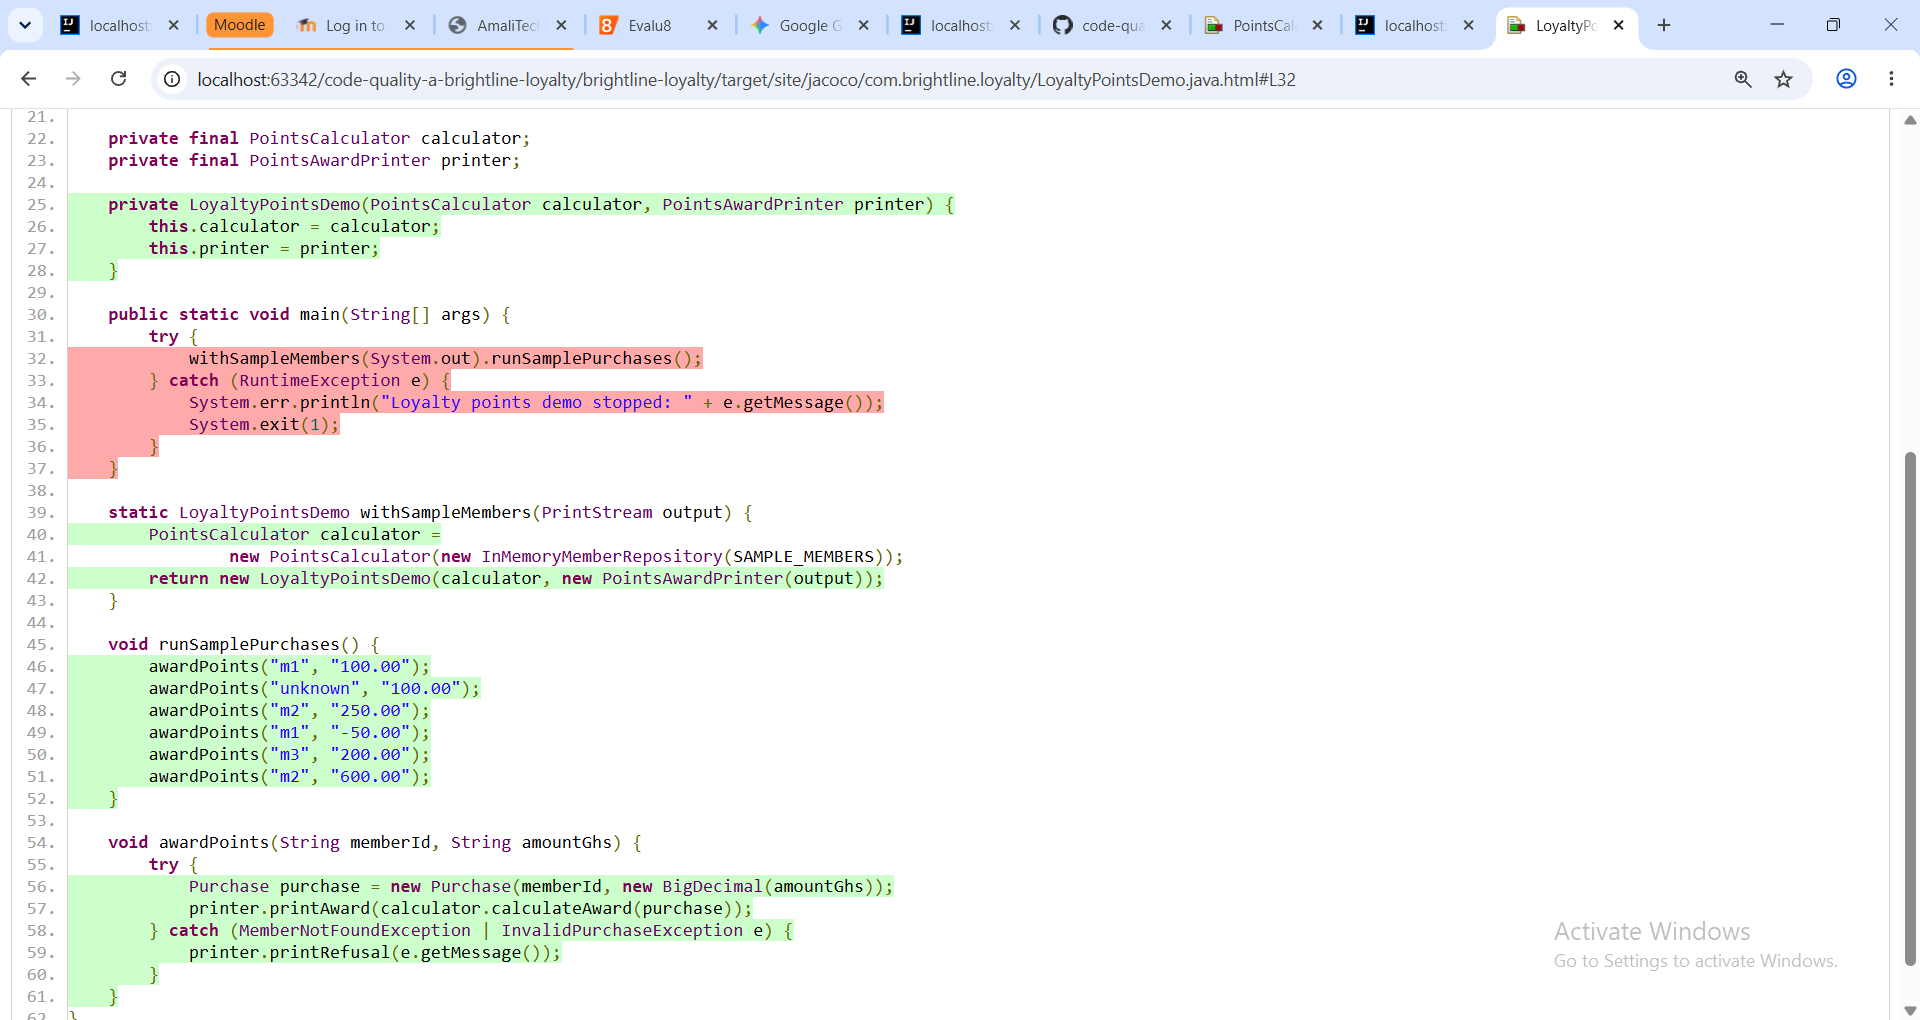
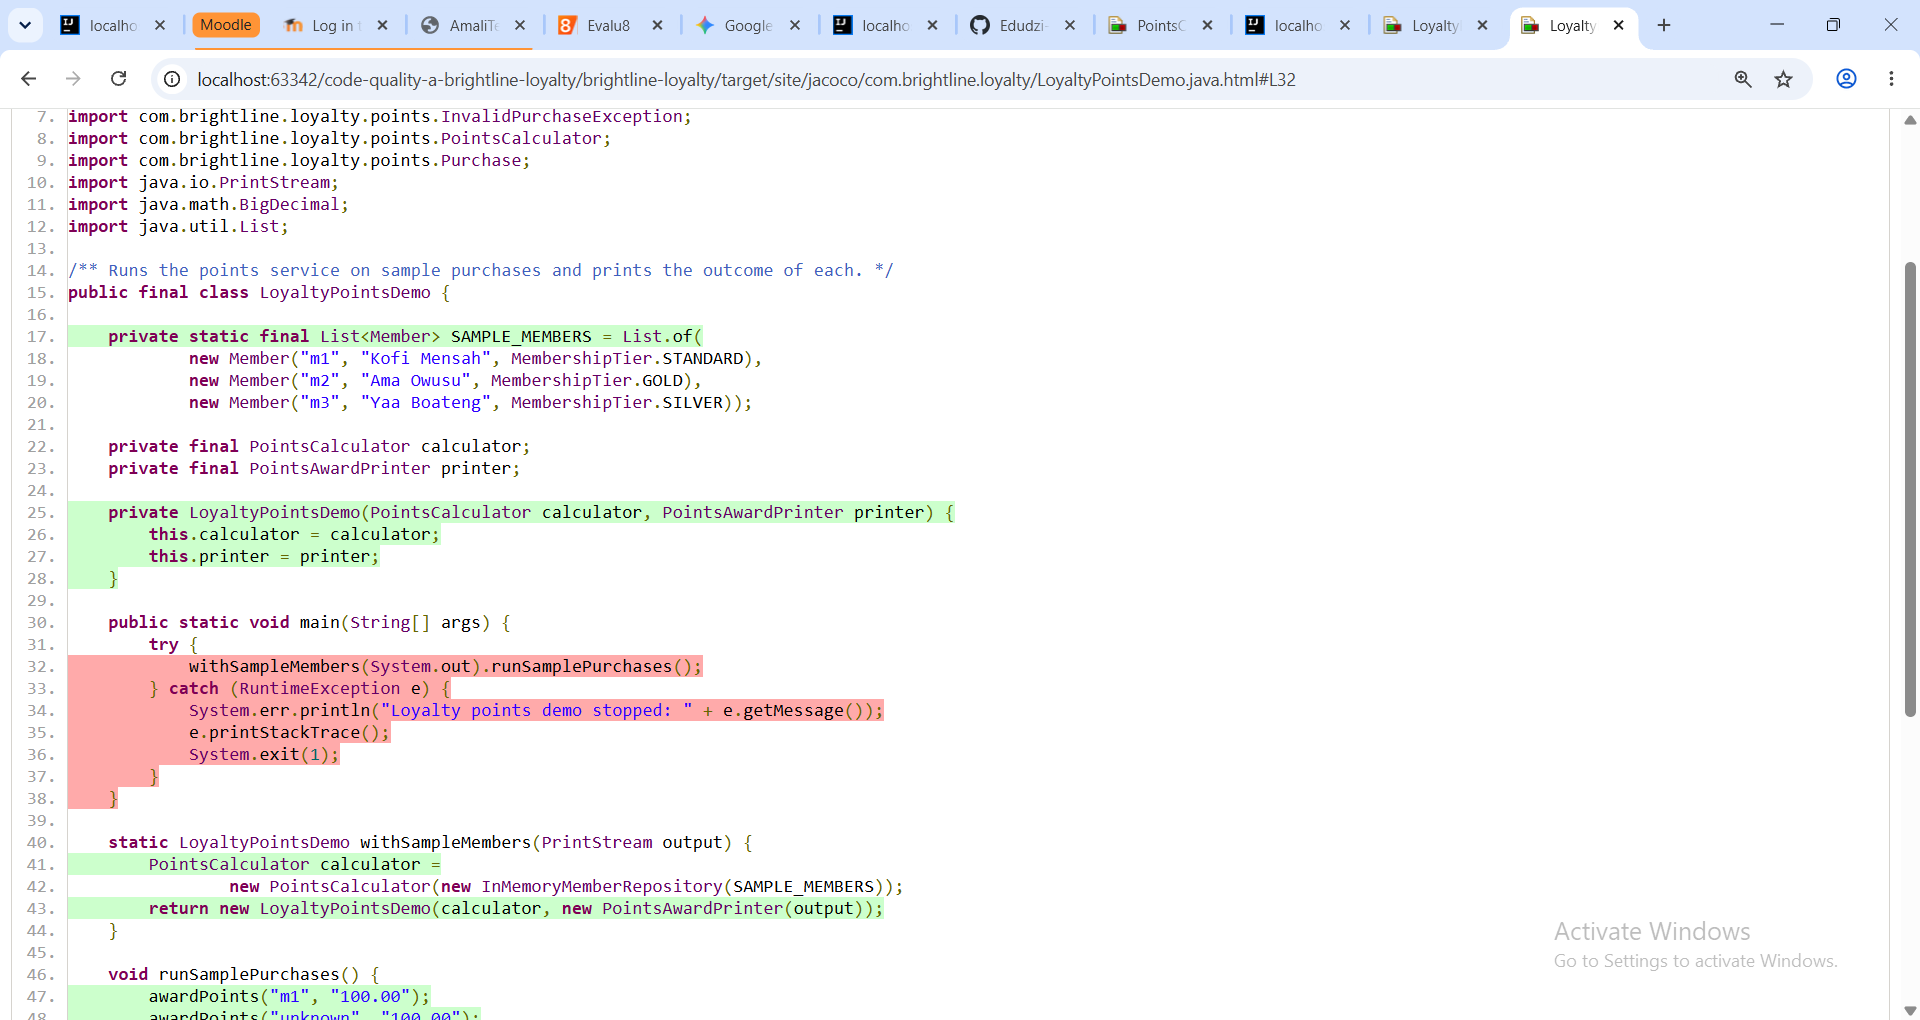
Fix the hygiene review points
Renames GHS_PER_BASE_POINT to GHS_PER_POINT and the bonus parameter to tierPoints, names the decimal-places check, refuses an amount that is not a number instead of stopping the demo, keeps the stack trace for unexpected errors, verifies the repository lookup in the unknown-member test and adds a test for a non-numeric amount. Figures and evidence updated to match.

diff --git a/src/main/java/com/brightline/loyalty/points/PointsCalculator.java b/src/main/java/com/brightline/loyalty/points/PointsCalculator.java
@@ -10,7 +10,7 @@ import java.util.Objects;
 /** Works out the points a member earns on a purchase. */
 public final class PointsCalculator {
 
-    private static final BigDecimal GHS_PER_BASE_POINT = new BigDecimal("10");
+    private static final BigDecimal GHS_PER_POINT = new BigDecimal("10");
     private static final BigDecimal BONUS_THRESHOLD_GHS = new BigDecimal("500");
     private static final int BONUS_POINTS = 50;
 
@@ -30,14 +30,14 @@ public final class PointsCalculator {
     }
 
     private int basePoints(BigDecimal amount) {
-        return amount.divide(GHS_PER_BASE_POINT, 0, RoundingMode.DOWN).intValueExact();
+        return amount.divide(GHS_PER_POINT, 0, RoundingMode.DOWN).intValueExact();
     }
 
     /** Adds the flat bonus for spending more than GHS 500; exactly GHS 500 earns none. */
-    private int addBonusPoints(BigDecimal amount, int points) {
+    private int addBonusPoints(BigDecimal amount, int tierPoints) {
         if (amount.compareTo(BONUS_THRESHOLD_GHS) > 0) {
-            return points + BONUS_POINTS;
+            return tierPoints + BONUS_POINTS;
         }
-        return points;
+        return tierPoints;
     }
 }

diff --git a/src/main/java/com/brightline/loyalty/LoyaltyPointsDemo.java b/src/main/java/com/brightline/loyalty/LoyaltyPointsDemo.java
@@ -32,6 +32,7 @@ public final class LoyaltyPointsDemo {
             withSampleMembers(System.out).runSamplePurchases();
         } catch (RuntimeException e) {
             System.err.println("Loyalty points demo stopped: " + e.getMessage());
+            e.printStackTrace();
             System.exit(1);
         }
     }
@@ -53,10 +54,18 @@ public final class LoyaltyPointsDemo {
 
     void awardPoints(String memberId, String amountGhs) {
         try {
-            Purchase purchase = new Purchase(memberId, new BigDecimal(amountGhs));
+            Purchase purchase = new Purchase(memberId, parseAmount(amountGhs));
             printer.printAward(calculator.calculateAward(purchase));
         } catch (MemberNotFoundException | InvalidPurchaseException e) {
             printer.printRefusal(e.getMessage());
+        }
+    }
+
+    private static BigDecimal parseAmount(String amountGhs) {
+        try {
+            return new BigDecimal(amountGhs);
+        } catch (NumberFormatException e) {
+            throw new InvalidPurchaseException("Amount is not a number: " + amountGhs, e);
         }
     }
 }

diff --git a/src/main/java/com/brightline/loyalty/points/Purchase.java b/src/main/java/com/brightline/loyalty/points/Purchase.java
@@ -14,9 +14,14 @@ public record Purchase(String memberId, BigDecimal amount) {
         if (amount == null || amount.signum() <= 0) {
             throw new InvalidPurchaseException("Amount must be more than zero: " + amount);
         }
-        if (amount.stripTrailingZeros().scale() > MAX_DECIMAL_PLACES) {
+        if (decimalPlaces(amount) > MAX_DECIMAL_PLACES) {
             throw new InvalidPurchaseException("Amount must have at most "
                     + MAX_DECIMAL_PLACES + " decimal places: " + amount);
         }
+    }
+
+    /** Counts real decimal places: trailing zeros do not count, so 10.500 has one. */
+    private static int decimalPlaces(BigDecimal amount) {
+        return amount.stripTrailingZeros().scale();
     }
 }

diff --git a/src/test/java/com/brightline/loyalty/points/PointsCalculatorTest.java b/src/test/java/com/brightline/loyalty/points/PointsCalculatorTest.java
@@ -3,6 +3,7 @@ package com.brightline.loyalty.points;
 import static org.junit.jupiter.api.Assertions.assertAll;
 import static org.junit.jupiter.api.Assertions.assertEquals;
 import static org.junit.jupiter.api.Assertions.assertThrows;
+import static org.mockito.Mockito.verify;
 import static org.mockito.Mockito.when;
 
 import com.brightline.loyalty.member.Member;
@@ -75,6 +76,7 @@ class PointsCalculatorTest {
         MemberNotFoundException exception = assertThrows(MemberNotFoundException.class,
                 () -> calculator.calculateAward(purchase));
         assertEquals("No member found with id: unknown", exception.getMessage());
+        verify(memberRepository).findById("unknown");
     }
 
     @Test

diff --git a/src/test/java/com/brightline/loyalty/LoyaltyPointsDemoTest.java b/src/test/java/com/brightline/loyalty/LoyaltyPointsDemoTest.java
@@ -40,4 +40,12 @@ class LoyaltyPointsDemoTest {
         assertEquals("Purchase refused: Amount must have at most 2 decimal places: 15.555"
                 + System.lineSeparator(), captured.toString());
     }
+
+    @Test
+    void refusesAmountThatIsNotANumber() {
+        demo.awardPoints("m1", "abc");
+
+        assertEquals("Purchase refused: Amount is not a number: abc"
+                + System.lineSeparator(), captured.toString());
+    }
 }

diff --git a/src/main/java/com/brightline/loyalty/points/InvalidPurchaseException.java b/src/main/java/com/brightline/loyalty/points/InvalidPurchaseException.java
@@ -11,4 +11,8 @@ public class InvalidPurchaseException extends IllegalArgumentException {
     public InvalidPurchaseException(String message) {
         super(message);
     }
+
+    public InvalidPurchaseException(String message, Throwable cause) {
+        super(message, cause);
+    }
 }

diff --git a/ANALYSIS.md b/ANALYSIS.md
@@ -179,7 +179,7 @@ This section explains the refactor: the design decisions, how the coming tier fi
 
 **D8. The bonus stays "more than GHS 500".** It is now named constants with boundary tests at 499.99, 500.00 and 500.01. Changing it to "GHS 500 or more" was considered and rejected: it would change a business rule nobody asked us to change, so it is kept, made visible and flagged as a question for the business. Fixes C8 and C9 (§3.4).
 
-**D9. Only the demo catches the business exceptions.** `LoyaltyPointsDemo.awardPoints` holds the only try/catch, because the entry point is where something useful can be done: tell the user and carry on with the next purchase. A result object returned instead of an exception was considered and rejected: it would remove the try/catch but add two classes. Fixes C1 (§6.1).
+**D9. Only the demo catches the business exceptions.** `LoyaltyPointsDemo.awardPoints` holds the only try/catch, because the entry point is where something useful can be done: tell the user and carry on with the next purchase. An amount that is not a number is turned into an `InvalidPurchaseException` that keeps the original error as its cause (§6.3), so it is refused like any other invalid purchase. A result object returned instead of an exception was considered and rejected: it would remove the try/catch but add two classes. Fixes C1 (§6.1).
 
 **D10. The calculator returns a `PointsAward`.** `calculateAward` returns the member, amount and points together, so the award line can show the member's name and id without a second lookup, and the printer takes one argument (§4.3). Printing only the member id was considered and rejected: the starter printed the name, and the name is what staff recognise.
 
@@ -236,7 +236,7 @@ Every points value for a valid purchase is unchanged: m1 still earns 10 points o
 
 ### Tests
 
-75 tests, all passing on `mvn clean verify`:
+76 tests, all passing on `mvn clean verify`:
 
 | Test class | Tests | Checks |
 |---|---|---|
@@ -246,7 +246,7 @@ Every points value for a valid purchase is unchanged: m1 still earns 10 points o
 | `PurchaseTest` | 14 | Amount and id boundaries |
 | `PointsCalculatorTest` | 15 | Mocked repository; every tier, rounding and bonus boundary, refusals |
 | `PointsAwardPrinterTest` | 9 | Exact printed lines |
-| `LoyaltyPointsDemoTest` | 2 | Whole chain with real classes; carries on after a refusal |
+| `LoyaltyPointsDemoTest` | 3 | Whole chain with real classes; carries on after a refusal; a non-numeric amount is refused |
 | `PointsRulesTableTest` | 18 | 17 business examples, and every tier has rows |
 
 Every expected value was worked out from the business rules first, then checked against the code, never copied from it. Every mocked test asserts a result or an exception, not only that a mock was called.
@@ -266,8 +266,8 @@ Every expected value was worked out from the business rules first, then checked 
 The bonus bug was planted for real: the build failed on four tests ([planted bug evidence](evidence/gate-catches-planted-bug.txt)).
 
 **Coverage and mutation testing after the refactor:**
-- PIT on the `member` and `points` packages: **13 mutants, 13 killed (100%)**, line coverage 35 of 35. The starter's tests killed 2 of 19 ([PIT after](evidence/after-pit-summary.png)).
-- JaCoCo over the whole project: **97% of instructions** (13 of 436 missed) and **100% of branches** (0 of 30 missed); the `member` and `points` packages are 100% on both ([JaCoCo after](evidence/after-jacoco-summary.png)). The 13 missed instructions are all in `LoyaltyPointsDemo.main`, the last-resort `catch` ([JaCoCo demo](evidence/after-jacoco-demo-main.png)): reaching it means breaking the program on purpose, and its `System.exit` would stop the test run. Everything `main` calls is covered by `LoyaltyPointsDemoTest`.
+- PIT on the `member` and `points` packages: **14 mutants, 14 killed (100%)**, line coverage 45 of 45. The starter's tests killed 2 of 19 ([PIT after](evidence/after-pit-summary.png)).
+- JaCoCo over the whole project: **96% of instructions** (15 of 457 missed) and **100% of branches** (0 of 30 missed); the `member` and `points` packages are 100% on both ([JaCoCo after](evidence/after-jacoco-summary.png)). The missed instructions are all in `LoyaltyPointsDemo.main`, the last-resort `catch` ([JaCoCo demo](evidence/after-jacoco-demo-main.png)): reaching it means breaking the program on purpose, and its `System.exit` would stop the test run. Everything `main` calls is covered by `LoyaltyPointsDemoTest`.
 
 ### Improvement: the build fails if the rules stop being really tested
 
@@ -297,3 +297,5 @@ I used an AI assistant (Claude) throughout this lab. This is how the work was sp
 - a GHS 499.99 row added, because there was no "just below" case for the bonus
 - `awardPoints` builds the `Purchase` inside its `try`, because the `Purchase` constructor is what refuses a bad amount
 - PIT upgraded after it was found unreliable on JDK 25
+
+**Hygiene review.** Evalu8's hygiene check found seven minor points, and I fixed all of them: a constant and a parameter renamed, the decimal-places check given a name, an amount that is not a number refused instead of stopping the demo, the stack trace kept for unexpected errors, and two tests added or tightened.

diff --git a/README.md b/README.md
@@ -65,7 +65,7 @@ If `mvn` is not found in a terminal, use IntelliJ instead: open the **Maven** pa
 ```
 mvn clean test
 ```
-Passing looks like `Tests run: 75, Failures: 0, Errors: 0, Skipped: 0` and then `BUILD SUCCESS`.
+Passing looks like `Tests run: 76, Failures: 0, Errors: 0, Skipped: 0` and then `BUILD SUCCESS`.
 
 **Full check** (tests, coverage and the mutation gate):
 ```
@@ -75,7 +75,7 @@ This also:
 - measures **coverage** with JaCoCo: which lines the tests run. Report: `target/site/jacoco/index.html`
 - runs **mutation testing** with PIT: it plants small bugs in the points rules and checks that a test catches each one. Report: `target/pit-reports/index.html`
 
-The build **fails** if any test fails, or if any planted bug in the rules goes uncaught. Passing ends with `Generated 13 mutations Killed 13 (100%)` and `BUILD SUCCESS`.
+The build **fails** if any test fails, or if any planted bug in the rules goes uncaught. Passing ends with `Generated 14 mutations Killed 14 (100%)` and `BUILD SUCCESS`.
 
 A few lines starting `Mockito is currently self-attaching` and `WARNING: A Java agent has been loaded dynamically` are expected on JDK 25 and do not affect the result (see "Known limits").
 
